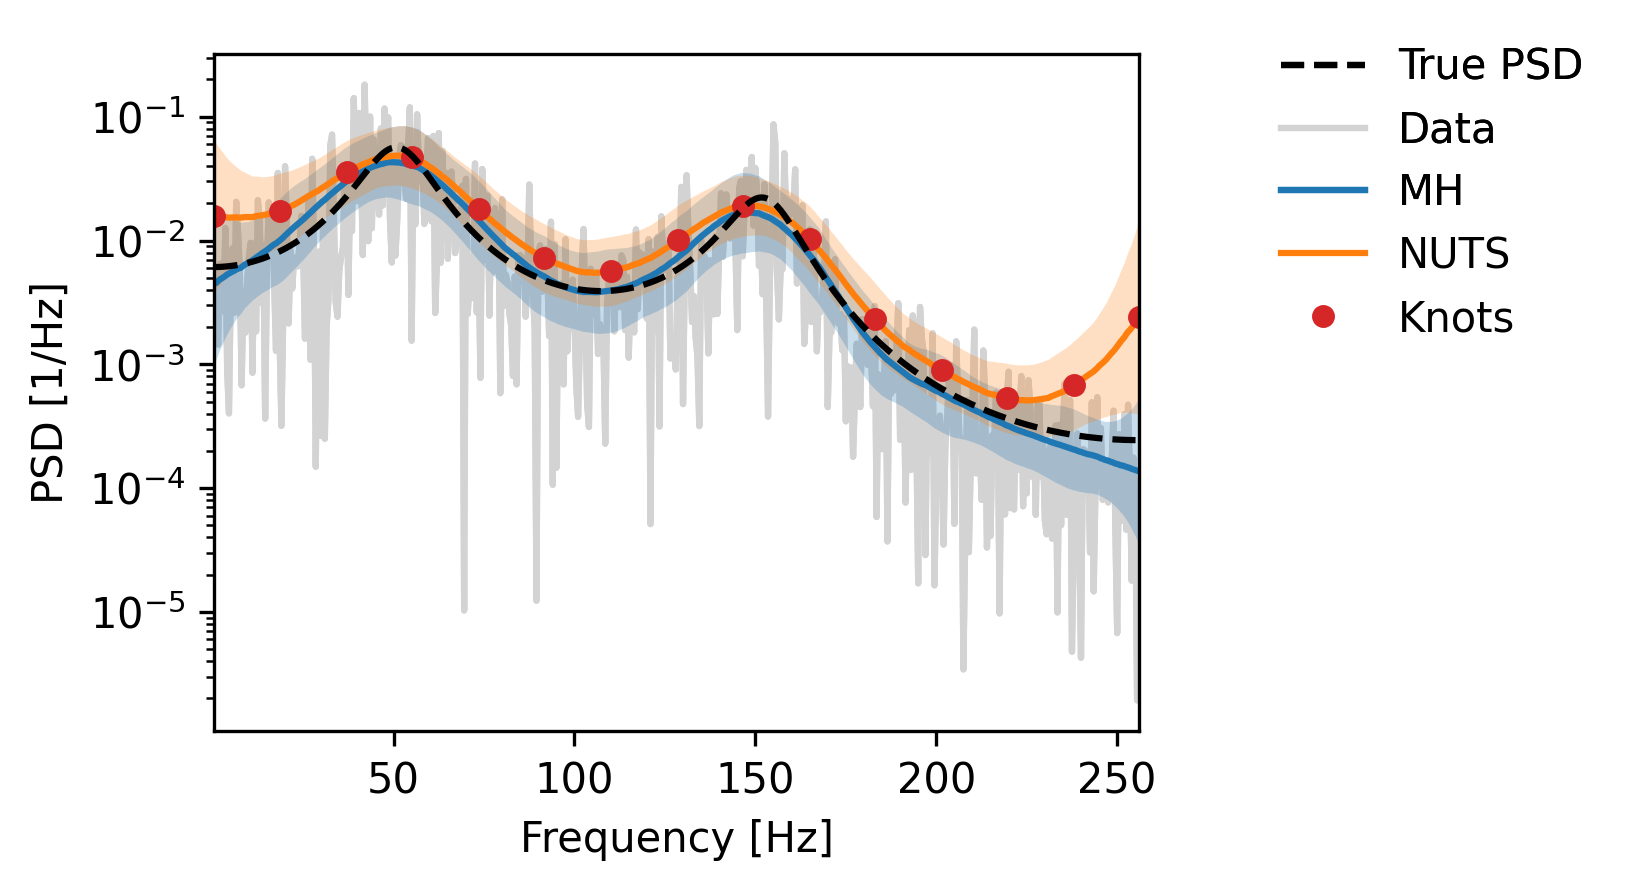
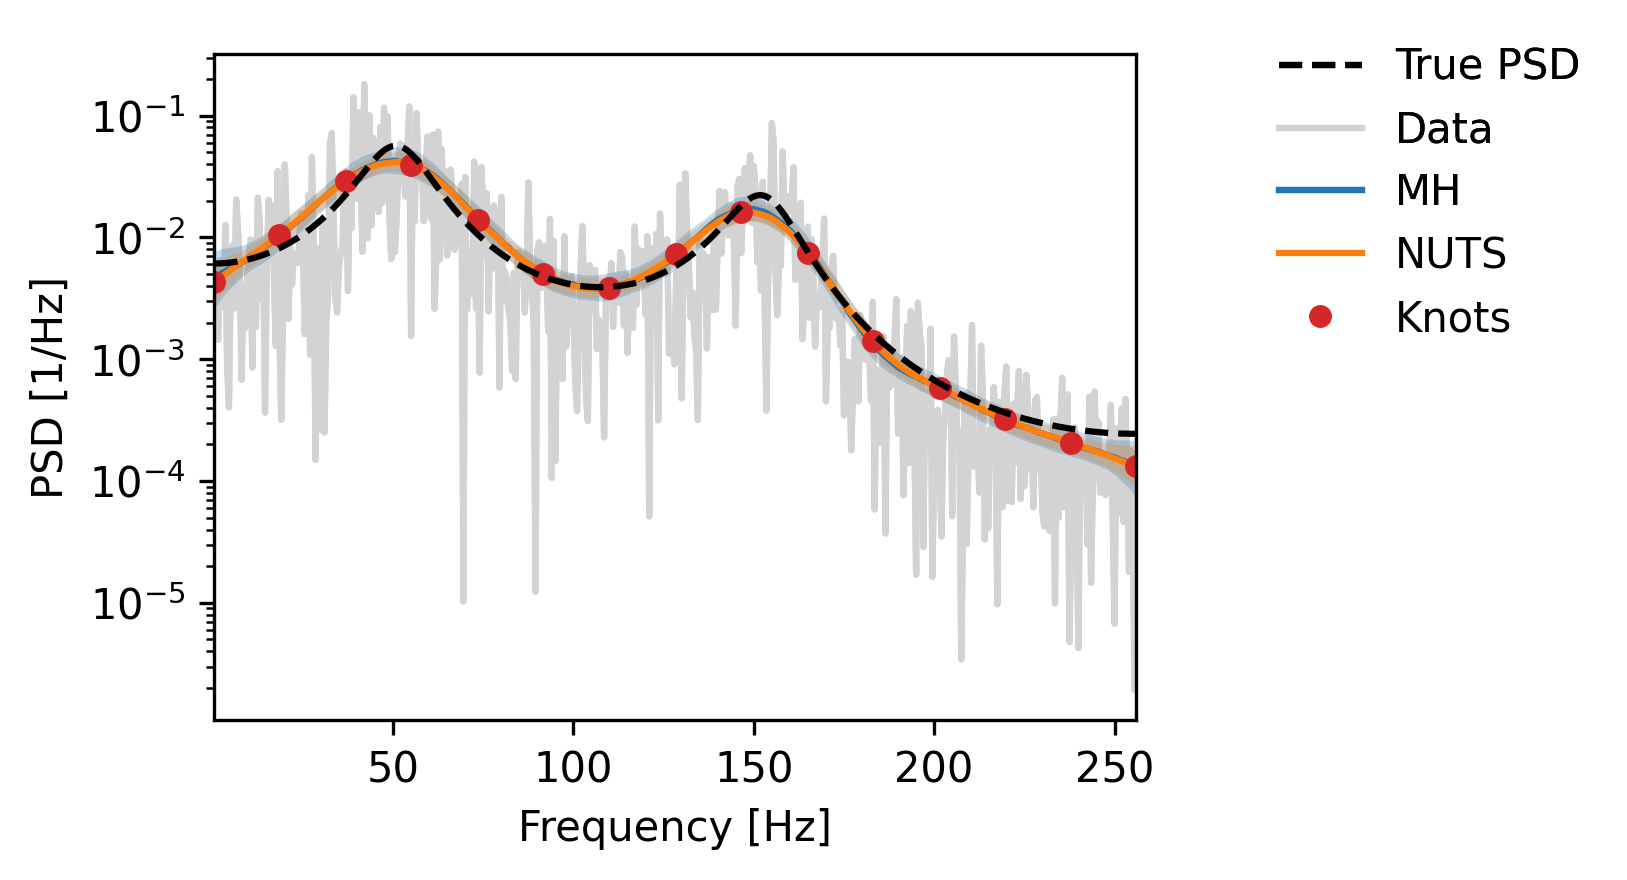
Add demo images

diff --git a/docs/demo.py b/docs/demo.py
@@ -7,15 +7,16 @@ from log_psplines.plotting import plot_pdgrm
 
 ar4 = ARData(order=4, duration=2.0, fs=512.0, sigma=1.0, seed=42)
 kawrgs = dict(
-    pdgrm=ar4.periodogram,
+    data=ar4.ts,
     n_knots=15,
     n_samples=2500,
     n_warmup=1000,
     rng_key=0,
     knot_kwargs=dict(method="uniform"),
+    init_from_vi=True,
 )
-inference_mh = run_mcmc(**kawrgs, sampler="mh", outdir="mh_out")
-inference_nuts = run_mcmc(**kawrgs, sampler="nuts", outdir="nuts_out")
+inference_mh = run_mcmc(**kawrgs, sampler="mh", outdir="out/mh_out")
+inference_nuts = run_mcmc(**kawrgs, sampler="nuts", outdir="out/nuts_out")
 
 fig, ax = plt.subplots(1, 1, figsize=(4, 3))
 ax.plot(
